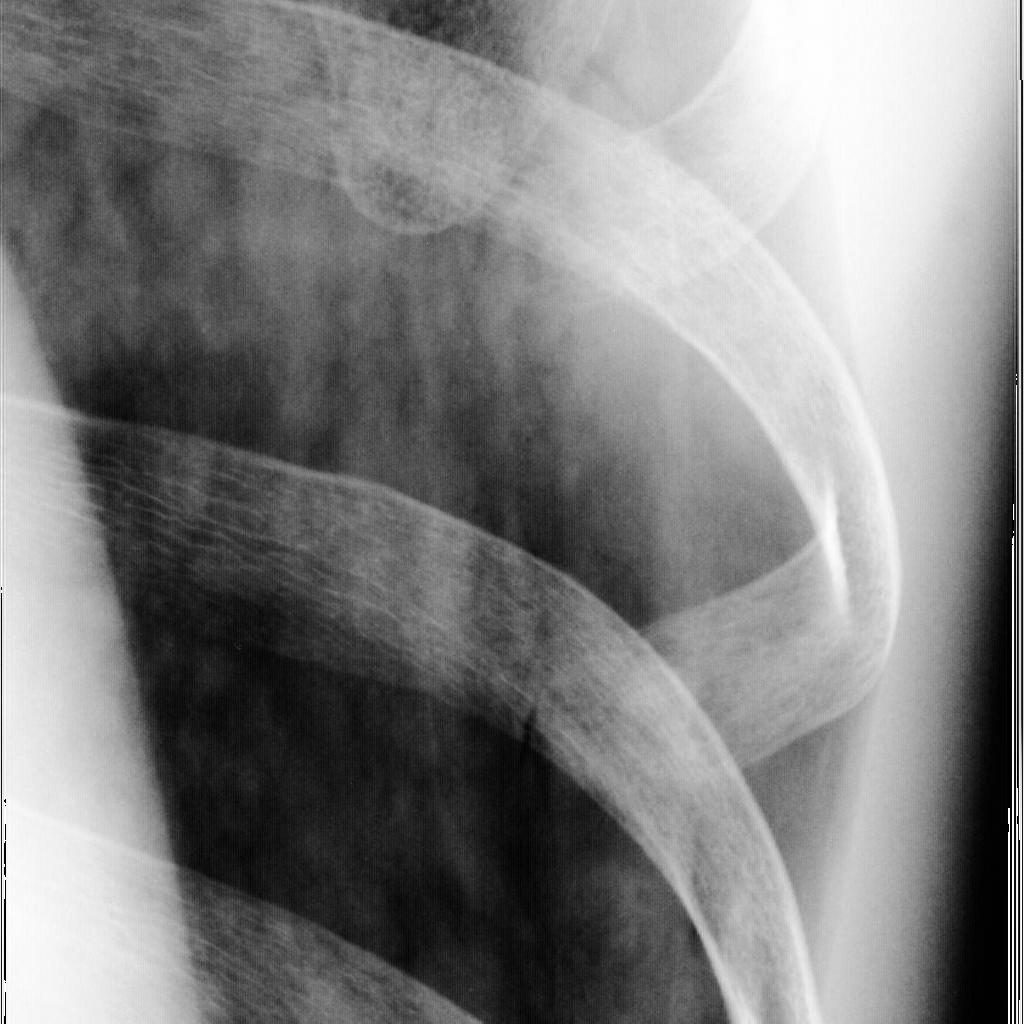
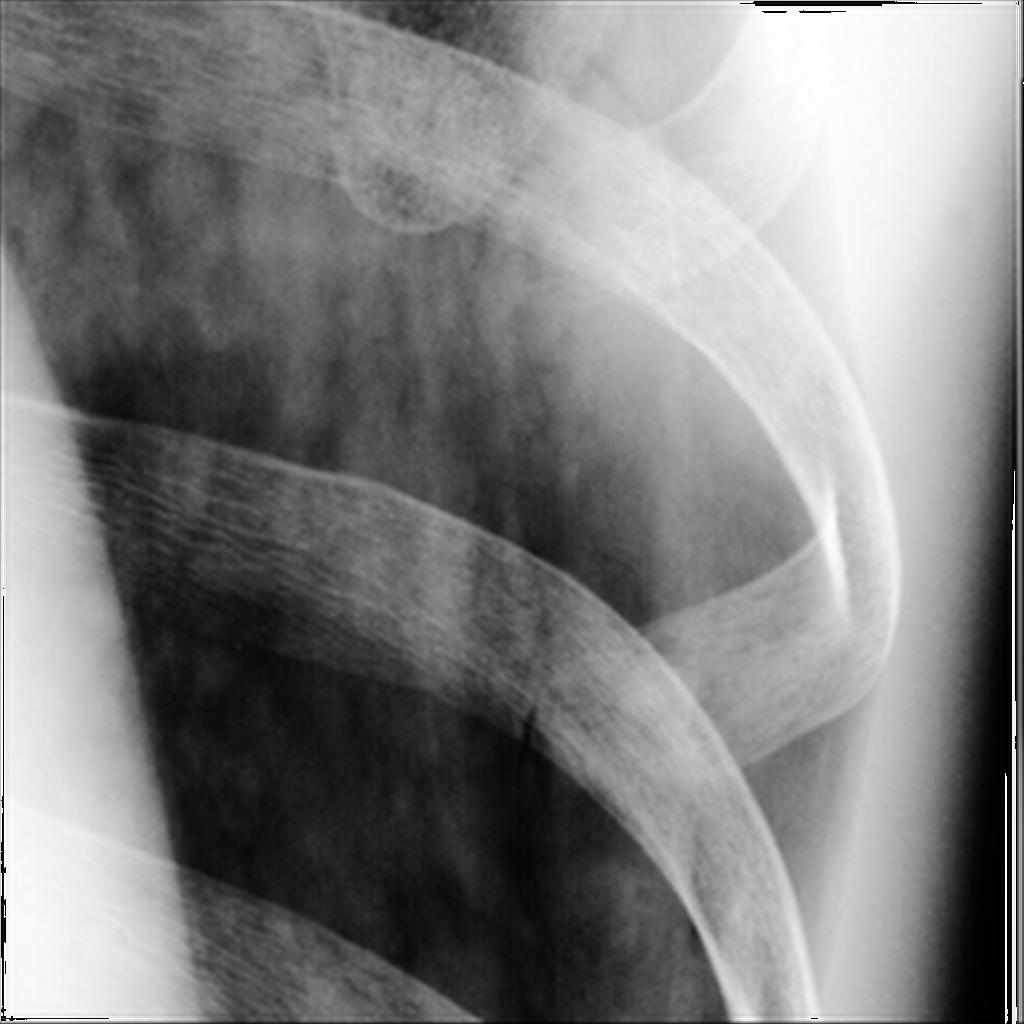
feat: задание по 6 лекции

diff --git a/Drivers/ImageModelDriver.py b/Drivers/ImageModelDriver.py
@@ -1,9 +1,12 @@
-import numpy as np
 from Models.SPDImage import *
 from Analyze.AnalyzeModel import *
 from PIL import Image
 from Analyze.Filters import *
+
+import numpy as np
 import numba
+import random
+import cv2
 
 
 class ImageModelDriver:
@@ -180,14 +183,16 @@ class ImageModelDriver:
     def fix_moire_for_image(
             image: SPDImage,
             result_freqs,
-            apply_vertical_fix
+            apply_vertical_fix,
+            shift,
+            m
     ) -> bool:
         if len(result_freqs) == 0:
             print('Не нашлась решетка на изображении!')
             return False
 
         first_top_freq = result_freqs[0]
-        filter = Filters.bsw_filter(first_top_freq - 0.05, first_top_freq + 0.05, 1, 32)[1]
+        filter = Filters.bsw_filter(first_top_freq - shift, first_top_freq + shift, 1, m)[1]
 
         print('Работаем с частотой: ' + str(first_top_freq))
 
@@ -209,3 +214,92 @@ class ImageModelDriver:
         print('Изображение ' + image.name + ' исправлено!\n')
 
         return True
+
+    # -------------------------------
+    # Лекция 6
+    # -------------------------------
+
+    @staticmethod
+    def salt_pepper(image: SPDImage, dots_count: int):
+        final_image = []
+
+        for row in image.modified_image:
+            result = ImageModelDriver.salt_pepper_per_line(row, dots_count)
+            final_image.append(result)
+
+        image.update(final_image, '_salt_and_pepper')
+
+    @staticmethod
+    @numba.jit(nopython=True)
+    def salt_pepper_per_line(image_data: np.ndarray, dots_count: int) -> np.ndarray:
+        result_row = []
+
+        for item in image_data:
+            possibility = random.randint(0, 1000)
+
+            if possibility < dots_count:
+                result_row.append(0)
+            elif 300 < possibility < (300 + dots_count):
+                result_row.append(255)
+            else:
+                result_row.append(item)
+
+        return np.array(result_row)
+
+    @staticmethod
+    def random_noize(image: SPDImage, intensity: int):
+        final_image = []
+
+        for row in image.modified_image:
+            result = ImageModelDriver.random_noize_per_line(row, intensity)
+            final_image.append(result)
+
+        image.update(final_image, '_random_noize')
+
+    @staticmethod
+    @numba.jit(nopython=True)
+    def random_noize_per_line(image_data: np.ndarray, intensity: int) -> np.ndarray:
+        result_row = []
+
+        for item in image_data:
+            noize = random.randint(0, intensity)
+            sign = random.randint(0, 1000)
+
+            if sign > 500:
+                result_row.append((item + noize) % 255)
+            else:
+                result_row.append((item - noize) % 255)
+        return np.array(result_row)
+
+    @staticmethod
+    def linear_filter(image_sd: SPDImage, kernel: int):
+        image = image_sd.modified_image
+        mask = np.ones([kernel, kernel], dtype=int)
+
+        output = np.zeros_like(image)
+        image_padded = np.zeros((image.shape[0] + kernel - 1, image.shape[1] + kernel - 1))
+        image_padded[1:-1, 1:-1] = image
+
+        for x in range(image.shape[1]):
+            for y in range(image.shape[0]):
+                output[y, x] = np.mean((mask * image_padded[y: y + kernel, x: x + kernel]))
+
+        processed_image = np.array(output)
+
+        image_sd.update(processed_image, '_linear_filter')
+
+    @staticmethod
+    def median_filter(image_sd: SPDImage, kernel: int):
+        image = image_sd.modified_image
+
+        output = np.zeros_like(image)
+        image_padded = np.zeros((image.shape[0] + kernel - 1, image.shape[1] + kernel - 1))
+        image_padded[1:-1, 1:-1] = image
+
+        for x in range(image.shape[1]):
+            for y in range(image.shape[0]):
+                output[y, x] = np.median(image_padded[y: y + kernel, x: x + kernel])
+
+        processed_image = np.array(output)
+
+        image_sd.update(processed_image, '_median_filter')

diff --git a/lesson6/ImageLesson6.py b/lesson6/ImageLesson6.py
@@ -1,0 +1,49 @@
+from Drivers.ImageModelDriver import *
+from Drivers.ImageDisplayDriver import *
+from Drivers.PlotDriver import *
+
+
+class ImageLesson6:
+
+    @staticmethod
+    def run():
+        # ----------------------
+        # Загружаем фото model.jpg
+        # ----------------------
+
+        loaded_image_model = SPDImage.fromFile('lesson6/', 'model', '.jpg', np.uint8)
+        loaded_image_model.modified_folder = loaded_image_model.folder + "salt_pepper/"
+
+        ImageModelDriver.salt_pepper(loaded_image_model, 3)
+        ImageDisplayDriver.save(loaded_image_model)
+
+        loaded_image_model_linear_filter = loaded_image_model.copy()
+        loaded_image_model_linear_filter.modified_folder = loaded_image_model.folder + "salt_pepper/"
+
+        ImageModelDriver.linear_filter(loaded_image_model_linear_filter, 3)
+        ImageDisplayDriver.save(loaded_image_model_linear_filter)
+
+        loaded_image_model_median_filter = loaded_image_model.copy()
+        loaded_image_model_median_filter.modified_folder = loaded_image_model.folder + "salt_pepper/"
+
+        ImageModelDriver.median_filter(loaded_image_model_median_filter, 3)
+        ImageDisplayDriver.save(loaded_image_model_median_filter)
+
+        loaded_image_model.reset()
+
+        loaded_image_model.modified_folder = loaded_image_model.folder + "random_noize/"
+
+        ImageModelDriver.random_noize(loaded_image_model, 10)
+        ImageDisplayDriver.save(loaded_image_model)
+
+        loaded_image_model_linear_filter = loaded_image_model.copy()
+        loaded_image_model_linear_filter.modified_folder = loaded_image_model.folder + "random_noize/"
+
+        ImageModelDriver.linear_filter(loaded_image_model_linear_filter, 3)
+        ImageDisplayDriver.save(loaded_image_model_linear_filter)
+
+        loaded_image_model_median_filter = loaded_image_model.copy()
+        loaded_image_model_median_filter.modified_folder = loaded_image_model.folder + "random_noize/"
+
+        ImageModelDriver.median_filter(loaded_image_model_median_filter, 3)
+        ImageDisplayDriver.save(loaded_image_model_median_filter)

diff --git a/lesson5/ImageLesson5.py b/lesson5/ImageLesson5.py
@@ -17,7 +17,9 @@ class ImageLesson5:
         is_fixed = ImageModelDriver.fix_moire_for_image(
             loaded_image_c12_85v,
             ImageModelDriver.find_moire_for_image(loaded_image_c12_85v, 20),
-            apply_vertical_fix=False
+            True,
+            0.17,
+            32
         )
 
         # Сохраняем
@@ -34,7 +36,9 @@ class ImageLesson5:
         is_fixed = ImageModelDriver.fix_moire_for_image(
             loaded_image_u0,
             ImageModelDriver.find_moire_for_image(loaded_image_u0, 100),
-            apply_vertical_fix=True
+            True,
+            0.17,
+            32
         )
 
         # Сохраняем

diff --git a/Models/SPDImage.py b/Models/SPDImage.py
@@ -6,6 +6,7 @@ class SPDImage:
 
     def __init__(self, folder, name, extension, data, dtype):
         self.folder = folder
+        self.modified_folder = folder
         self.name = name
         self.extension = extension
         self.modified_name = name
@@ -25,3 +26,10 @@ class SPDImage:
 
     def max_type_colors_count(self) -> int:
         return np.iinfo(self.dtype).max + 1
+
+    def reset(self):
+        self.modified_image = np.array(self.original_image, copy=True)
+        self.modified_name = self.name
+
+    def copy(self):
+        return SPDImage(self.folder, self.name, self.extension, np.array(self.modified_image, copy=True), self.dtype)

diff --git a/Drivers/ImageDisplayDriver.py b/Drivers/ImageDisplayDriver.py
@@ -1,9 +1,12 @@
 from Models.SPDImage import *
 from PIL import Image
-
+import os
 
 class ImageDisplayDriver:
 
     @staticmethod
     def save(data: SPDImage, dtype=np.uint8):
-        Image.fromarray(data.modified_image.astype(dtype)).save(data.folder + data.modified_name + data.extension)
+        if not os.path.exists(data.modified_folder):
+            os.makedirs(data.modified_folder)
+
+        Image.fromarray(data.modified_image.astype(dtype)).save(data.modified_folder + data.modified_name + data.extension)

diff --git a/main.py b/main.py
@@ -3,9 +3,11 @@ from lesson2.ImageLesson2 import *
 from lesson3.ImageLesson3 import *
 from lesson4.ImageLesson4 import *
 from lesson5.ImageLesson5 import *
+from lesson6.ImageLesson6 import *
 
 # ImageLesson1.run()
 # ImageLesson2.run()
 # ImageLesson3.run()
 # ImageLesson4.run()
-ImageLesson5.run()
+# ImageLesson5.run()
+ImageLesson6.run()
